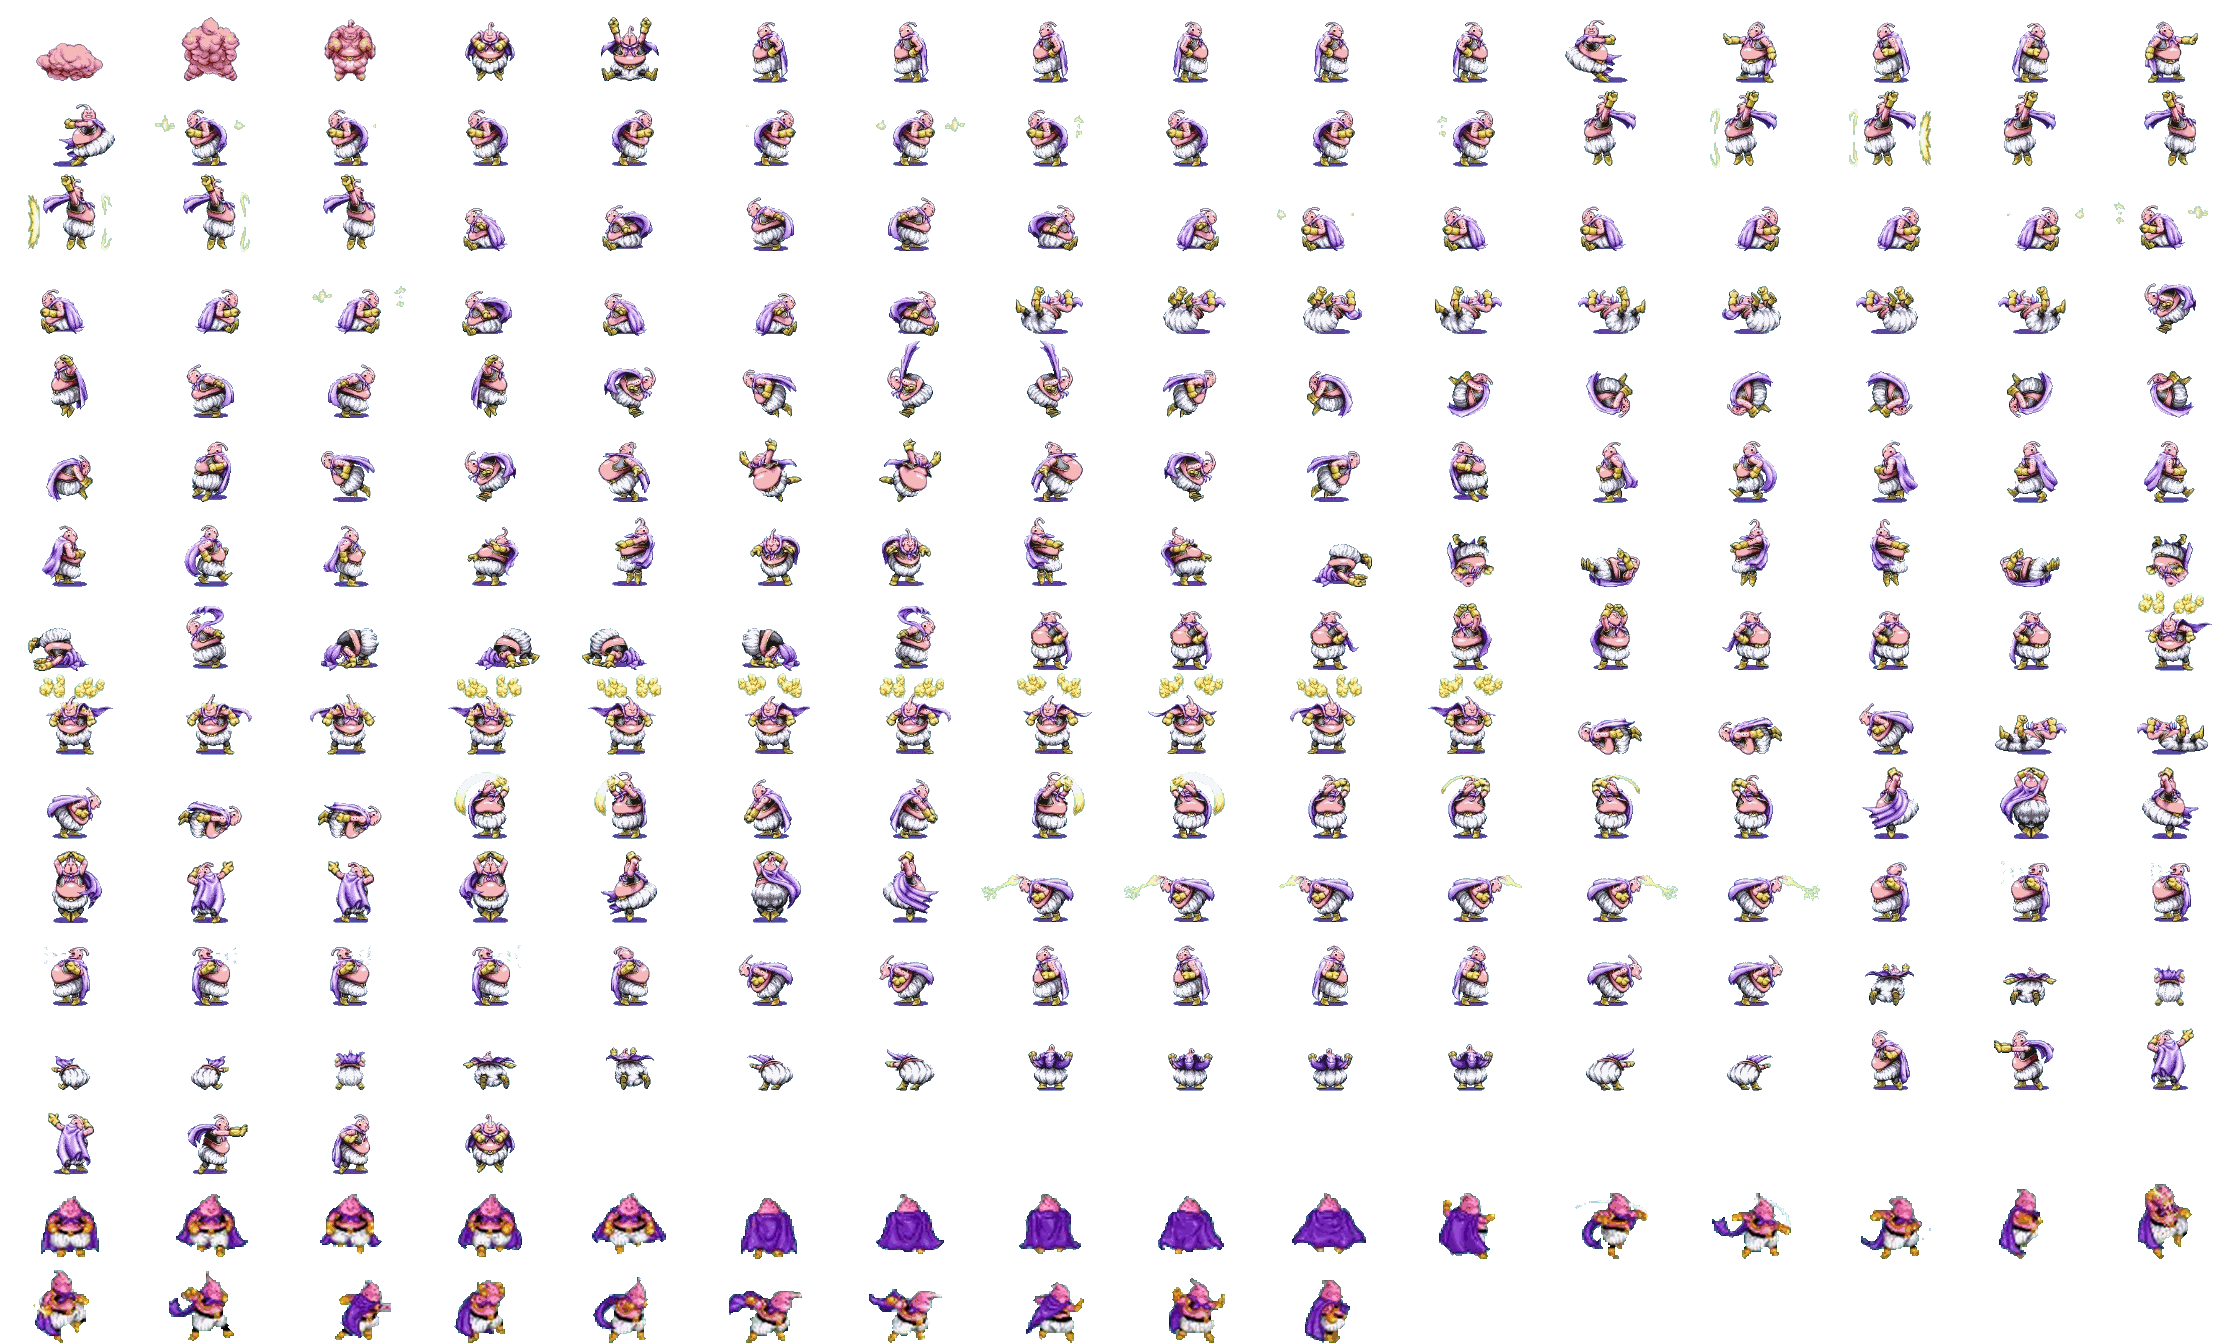
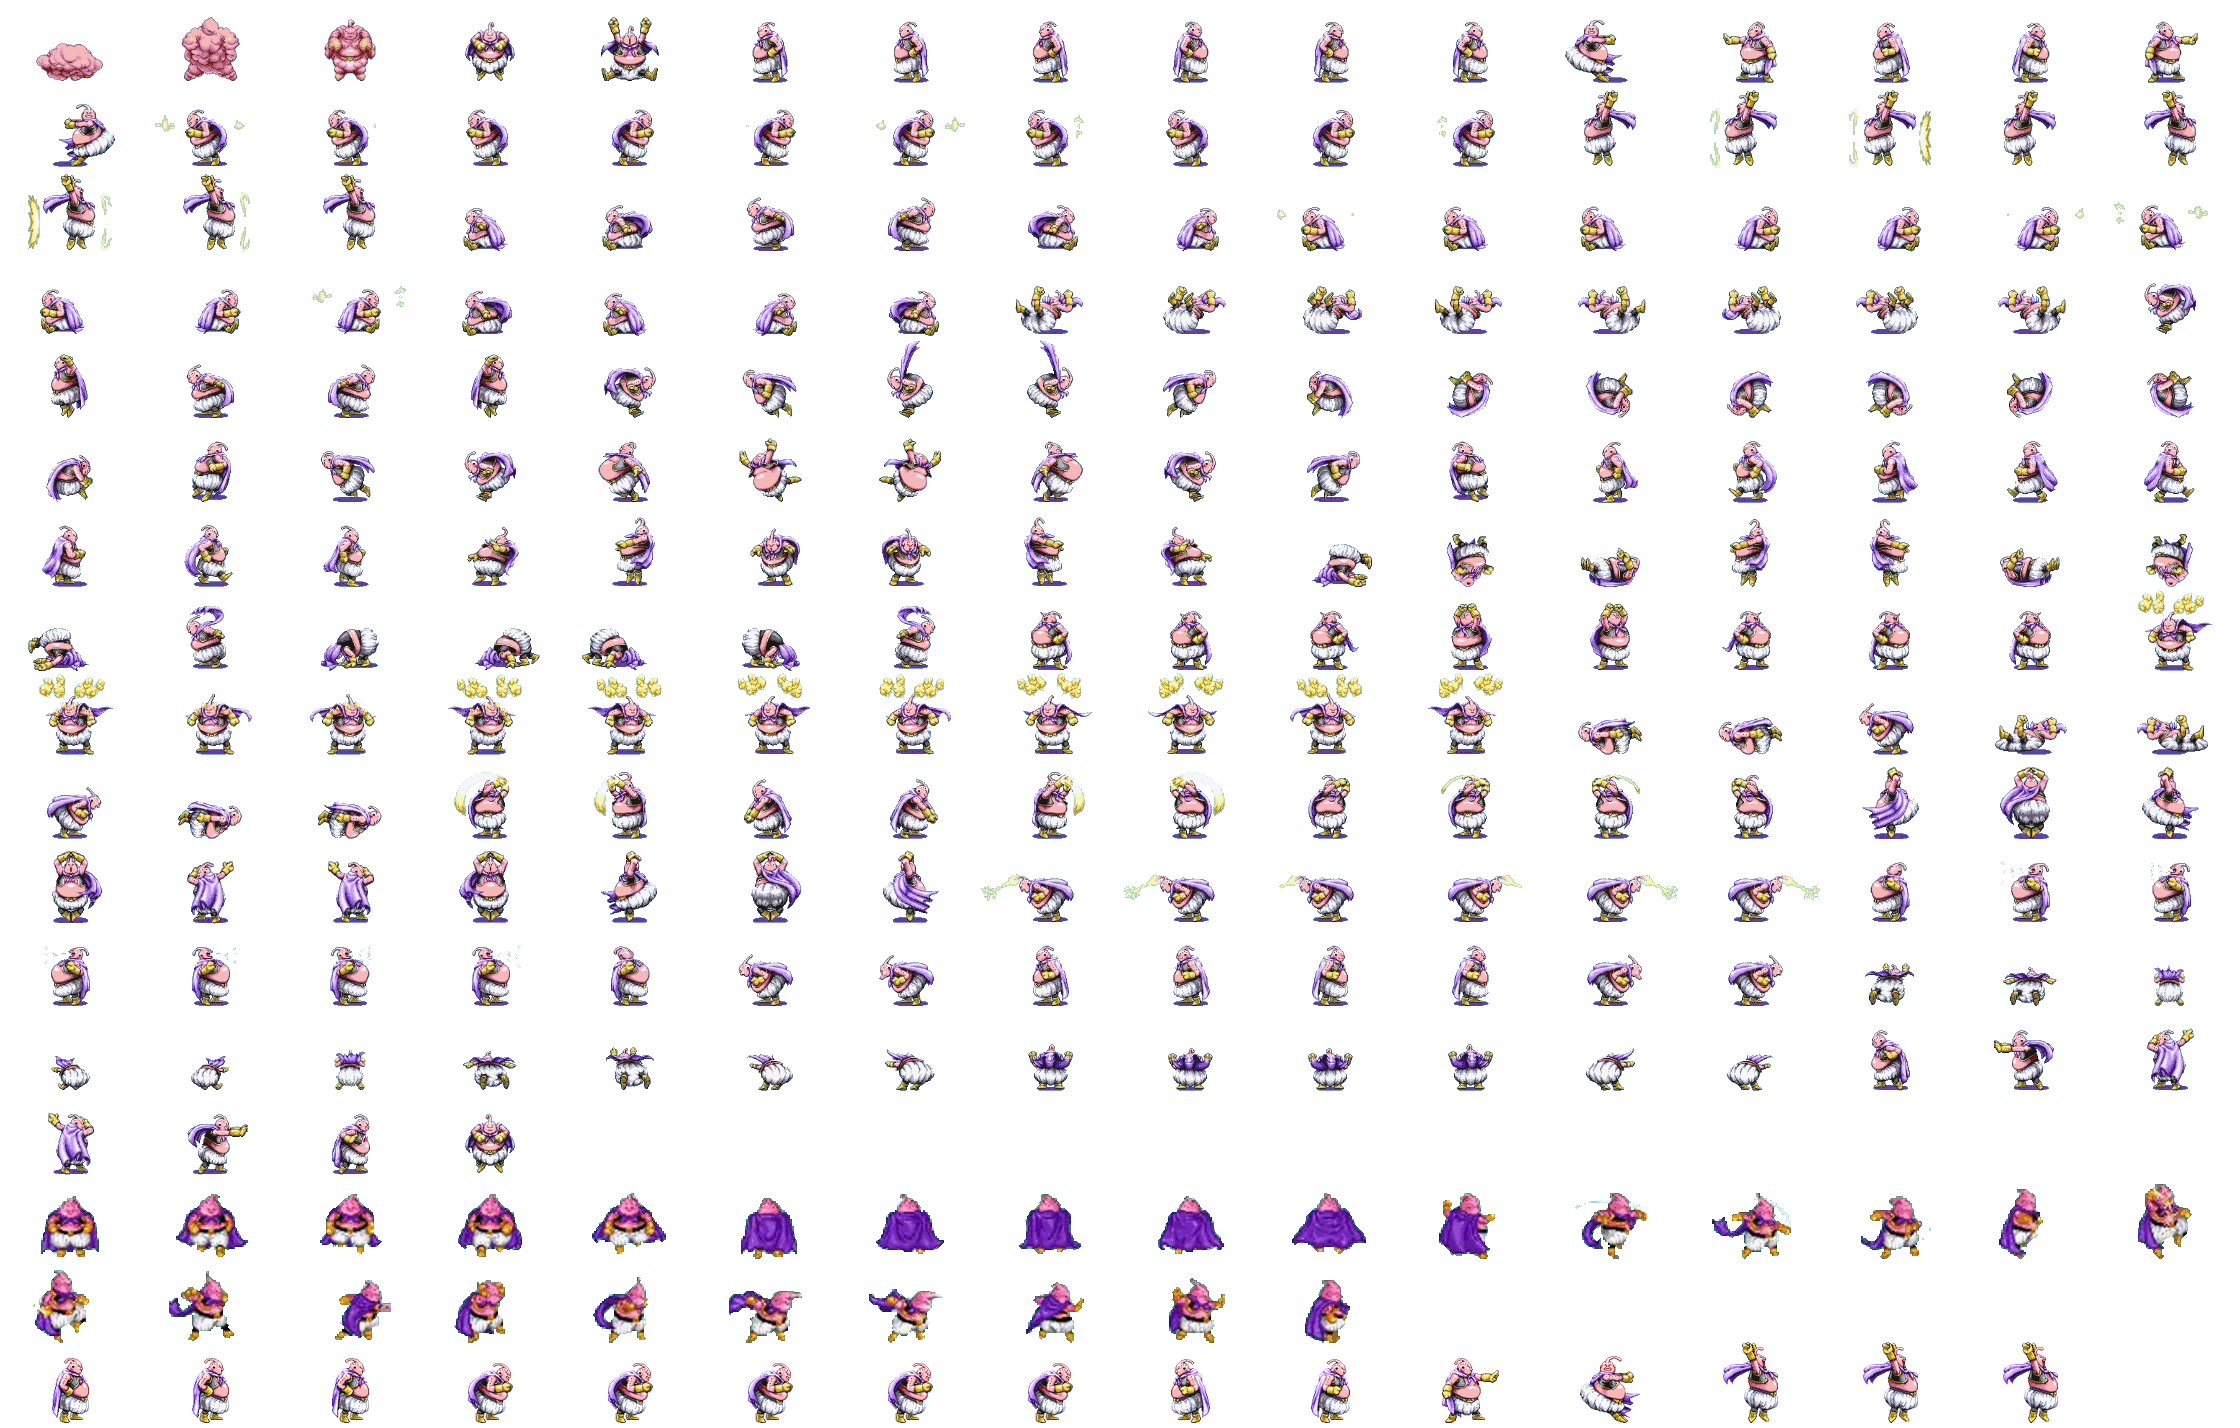
Mabu: dùng khung mới (đứng, chạy, nhìn thẳng, chưởng, bay) từ sheet người dùng gửi, thu về đúng cỡ Mabu cũ
Claude-Session: https://claude.ai/code/session_011yiZVuWaeeD6ep2oW3fXXc

Changed region(s): [[0.0, 0.0, 1.0, 1.0]]

diff --git a/web/src/game/nhan-vat-du-lieu.ts b/web/src/game/nhan-vat-du-lieu.ts
@@ -2,20 +2,21 @@
 import { NhanVatSprite } from './nhan-vat-sprite';
 
 export const MABU: NhanVatSprite = {
-  ten: 'Mabu', atlas: 'assets/game/mabu_atlas.png', atlasW: 2240, atlasH: 1344, w: 140, h: 84, cot: 16,
+  ten: 'Mabu', atlas: 'assets/game/mabu_atlas.png', atlasW: 2240, atlasH: 1428, w: 140, h: 84, cot: 16,
   neoX: 70, neoY: 81,
   // Khung 224-249 (2 hàng cuối atlas): Mabu kiểu nhìn chéo từ trên xuống — 224-228 nhìn xuống, 229-233 quay lưng,
   // 234-249 nhìn nghiêng (đã lật quay phải) cho đấm / đá. Bắn chưởng, mây, chết... vẫn dùng khung cũ.
-  huong: { len: { dung: [229], di: [230, 231, 232, 233] }, xuong: { dung: [224], di: [225, 226, 227, 228] } },
+  // Khung 256-270 (2 hàng thêm): sheet Mabu mới (tools/tao-atlas-mabu-moi.py): đứng, chạy, nhìn thẳng, chỉ tay bắn chưởng, bay. Chưa có góc lưng mới nên 'len' vẫn dùng khung cũ.
+  huong: { len: { dung: [229], di: [230, 231, 232, 233] }, xuong: { dung: [264], di: [264, 265] } },
   anim: {
-    idle: { f: [8, 9, 10, 9], ms: 150, lap: true },
+    idle: { f: [256, 257, 258, 257], ms: 150, lap: true },
     taunt_flex: { f: [130, 131, 132, 136, 137, 138, 137, 138], ms: 117, lap: false },
     taunt_wave: { f: [162, 163, 164, 165, 166, 165, 164, 163, 162], ms: 117, lap: false },
     taunt_stretch: { f: [126, 125, 124, 123, 123, 124, 125, 126], ms: 133, lap: false },
     taunt_antenna: { f: [156, 155, 156, 155, 156], ms: 133, lap: false },
     taunt_puff: { f: [180, 177, 178, 179, 178, 179, 180], ms: 117, lap: false },
-    run: { f: [95, 96, 97, 98], ms: 117, lap: true },
-    fly: { f: [31, 32, 33, 34], ms: 67, lap: true },
+    run: { f: [259, 260, 261, 262, 263], ms: 100, lap: true },
+    fly: { f: [268, 269, 270, 269], ms: 67, lap: true },
     jump_up: { f: [66, 67], ms: 83, lap: false },
     fall: { f: [71, 72], ms: 100, lap: false },
     crouch_land: { f: [66], ms: 167, lap: false },
@@ -39,7 +40,7 @@ export const MABU: NhanVatSprite = {
     kick_arc: { f: [234, 235, 236, 237], ms: 100, lap: false },
     antenna_whip: { f: [238, 243, 243, 238], ms: 83, lap: false },
     roll: { f: [77, 78, 79, 80, 77, 78, 79, 80], ms: 67, lap: false, tien: { tu: 0, den: 7, v: 3.0 } },
-    energy_ball: { f: [170, 171, 172, 172, 171, 170], ms: 100, lap: false, ban: { o: 2, dx: 60, dy: -38 } },
+    energy_ball: { f: [267, 266, 266, 266, 266, 267], ms: 100, lap: false, ban: { o: 1, dx: 34, dy: -49 } },
     // Biến thành đám mây (khung 2 → 1 → 0 là 3 hình mây trong atlas), rồi biến lại
     may_vao: { f: [2, 1, 0], ms: 110, lap: false },
     may: { f: [0], ms: 100, lap: true },

diff --git a/tools/tao-atlas-mabu-moi.py b/tools/tao-atlas-mabu-moi.py
@@ -1,0 +1,36 @@
+# Dựng web/public/assets/game/mabu_atlas.png = atlas Mabu cũ (tools/mabu-atlas-cu.png) + khung từ sheet mới (tools/mabu-moi-goc.png).
+# Khung mới thêm vào 2 hàng cuối (chỉ số 256..), thu nhỏ để cao bằng Mabu cũ, chân tại y = CHAN, tâm x = 70 (neoX).
+# Chạy: python3 tools/tao-atlas-mabu-moi.py   (cần Pillow + numpy + scipy; chạy lại được vì luôn lấy atlas cũ làm gốc)
+import os, importlib.util
+from PIL import Image
+
+D = os.path.dirname(os.path.abspath(__file__))
+spec = importlib.util.spec_from_file_location('cat', os.path.join(D, 'tao-cat-mabu-moi.py'))
+cat = importlib.util.module_from_spec(spec); spec.loader.exec_module(cat)
+
+CW, CH, COT = 140, 84, 16
+TL = 0.77      # tỉ lệ thu nhỏ: khung đứng mới cao ~77 -> ~59 như Mabu cũ
+CHAN = 79      # y chân
+NEO_X = 70
+
+# chỉ số khung sheet -> chỉ số khung atlas mới (đều là bản quay mặt phải; game tự lật khi quay trái)
+MOI = {
+    256: 8, 257: 9, 258: 10,                  # đứng
+    259: 20, 260: 21, 261: 22, 262: 25, 263: 26,   # chạy
+    264: 13, 265: 14,                         # nhìn thẳng phía trước (xuống)
+    266: 15, 267: 11,                         # bắn chưởng: chỉ tay sang phải
+    268: 34, 269: 35, 270: 36,                # bay (áo choàng bay ngược về trái)
+}
+cu = Image.open(os.path.join(D, 'mabu-atlas-cu.png')).convert('RGBA')
+hang = (max(MOI) // COT) + 1
+out = Image.new('RGBA', (cu.width, hang * CH), (0, 0, 0, 0))
+out.alpha_composite(cu, (0, 0))
+for k, i in MOI.items():
+    f = cat.cat(i)
+    f = f.resize((round(f.width * TL), round(f.height * TL)), Image.LANCZOS)
+    y, x = divmod(k, COT)
+    out.alpha_composite(f, (x * CW + NEO_X - f.width // 2, y * CH + CHAN - f.height))
+    if k in (266, 267):
+        print('khung', k, 'tay phai nhat x', f.width // 2, 'cao', f.height)
+out.save(os.path.join(D, '..', 'web', 'public', 'assets', 'game', 'mabu_atlas.png'))
+print(out.size)
